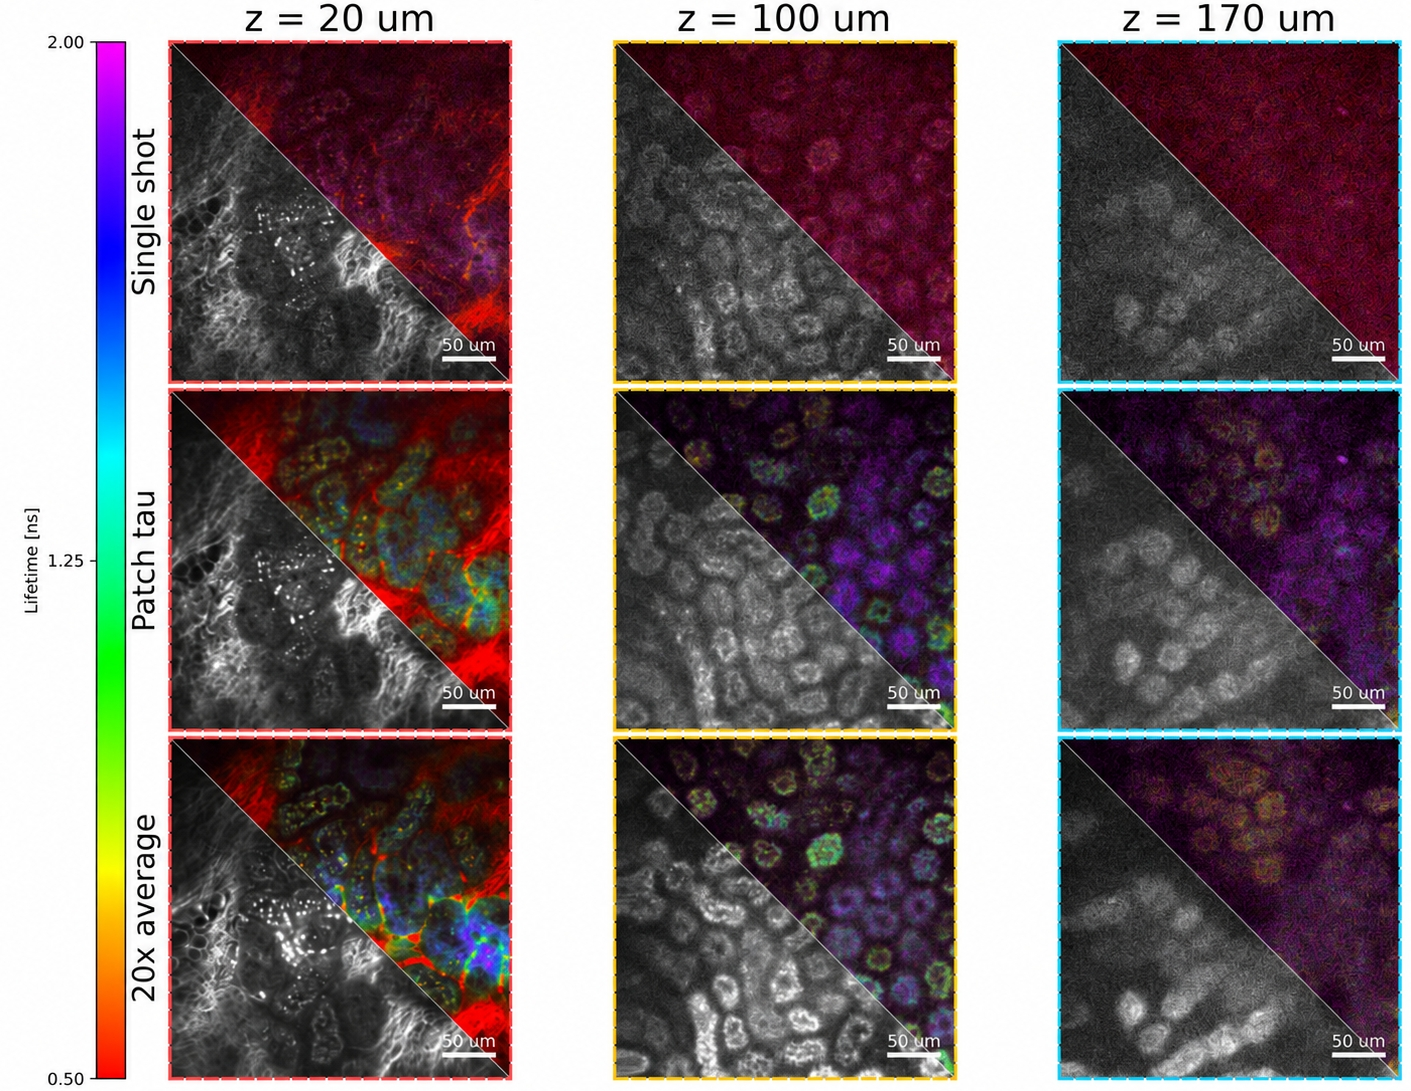
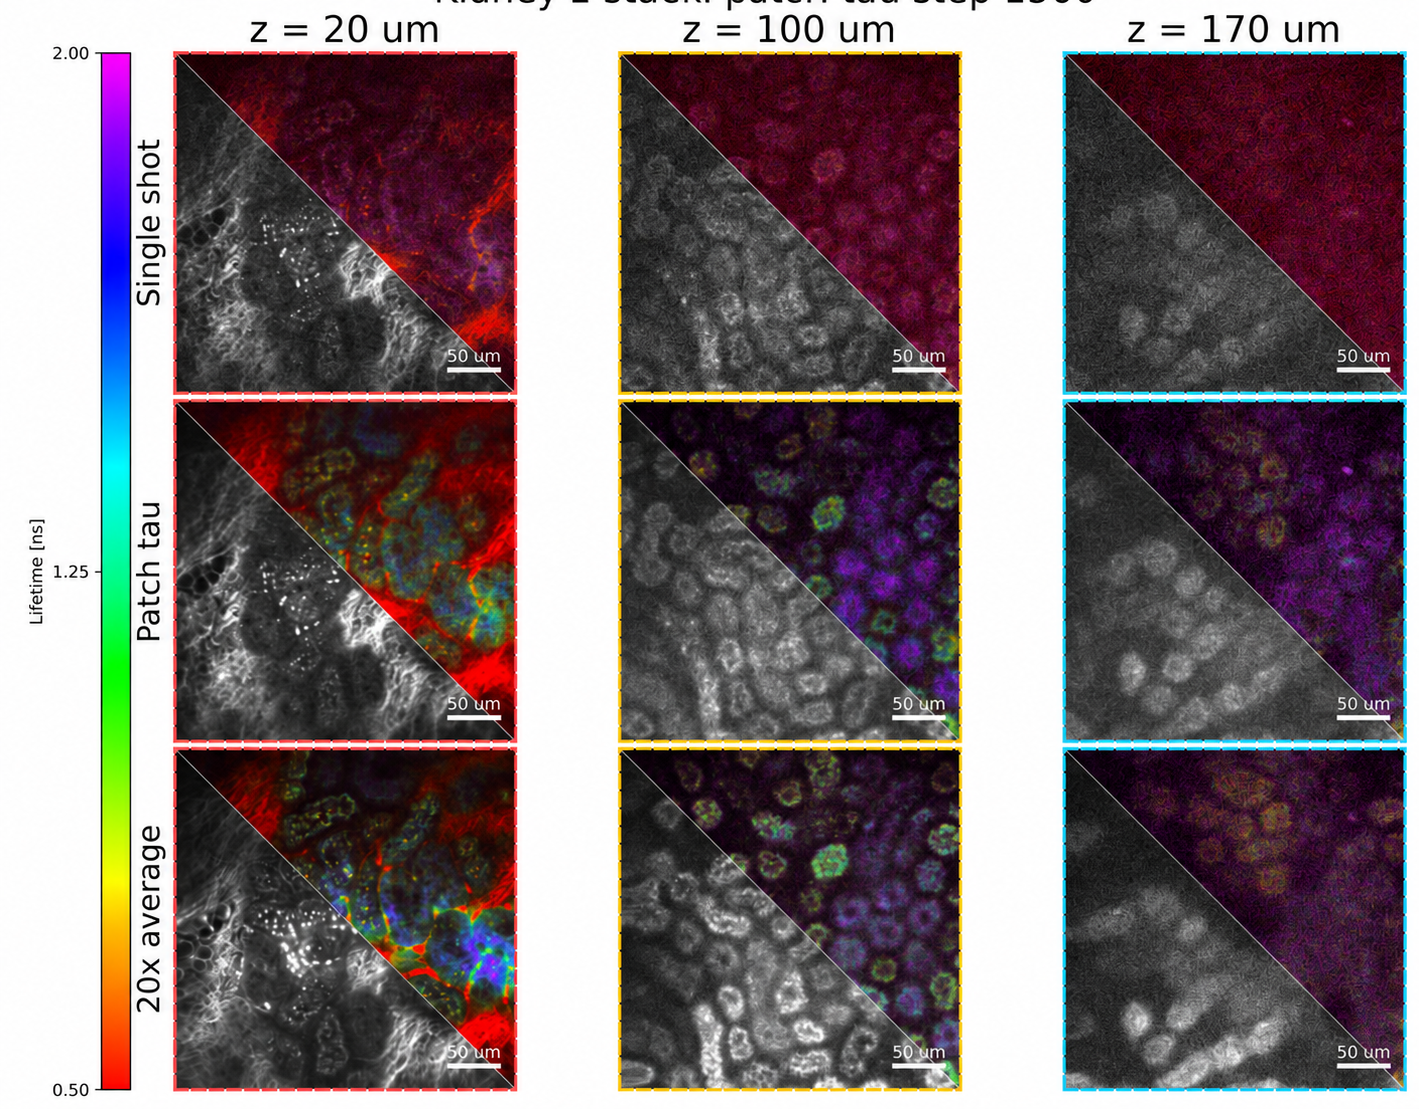
flim

diff --git a/_sass/_custom.scss b/_sass/_custom.scss
@@ -428,12 +428,13 @@ h1, h2, h3, h4, h5, h6,
   gap: 18px;
   margin: 0 0 1.45rem;
   padding: 0 0 1.25rem;
-  // Monica's page does not load a special font for publication text. It
-  // leaves the normal text at the browser's default serif face.
-  font-family: serif;
+  font-family: "Times New Roman", Times, serif;
 }
 
-.publication-card * { font-family: inherit; }
+.publication-card,
+.publication-card * {
+  font-family: "Times New Roman", Times, serif !important;
+}
 
 .publication-card__teaser {
   align-self: center;
